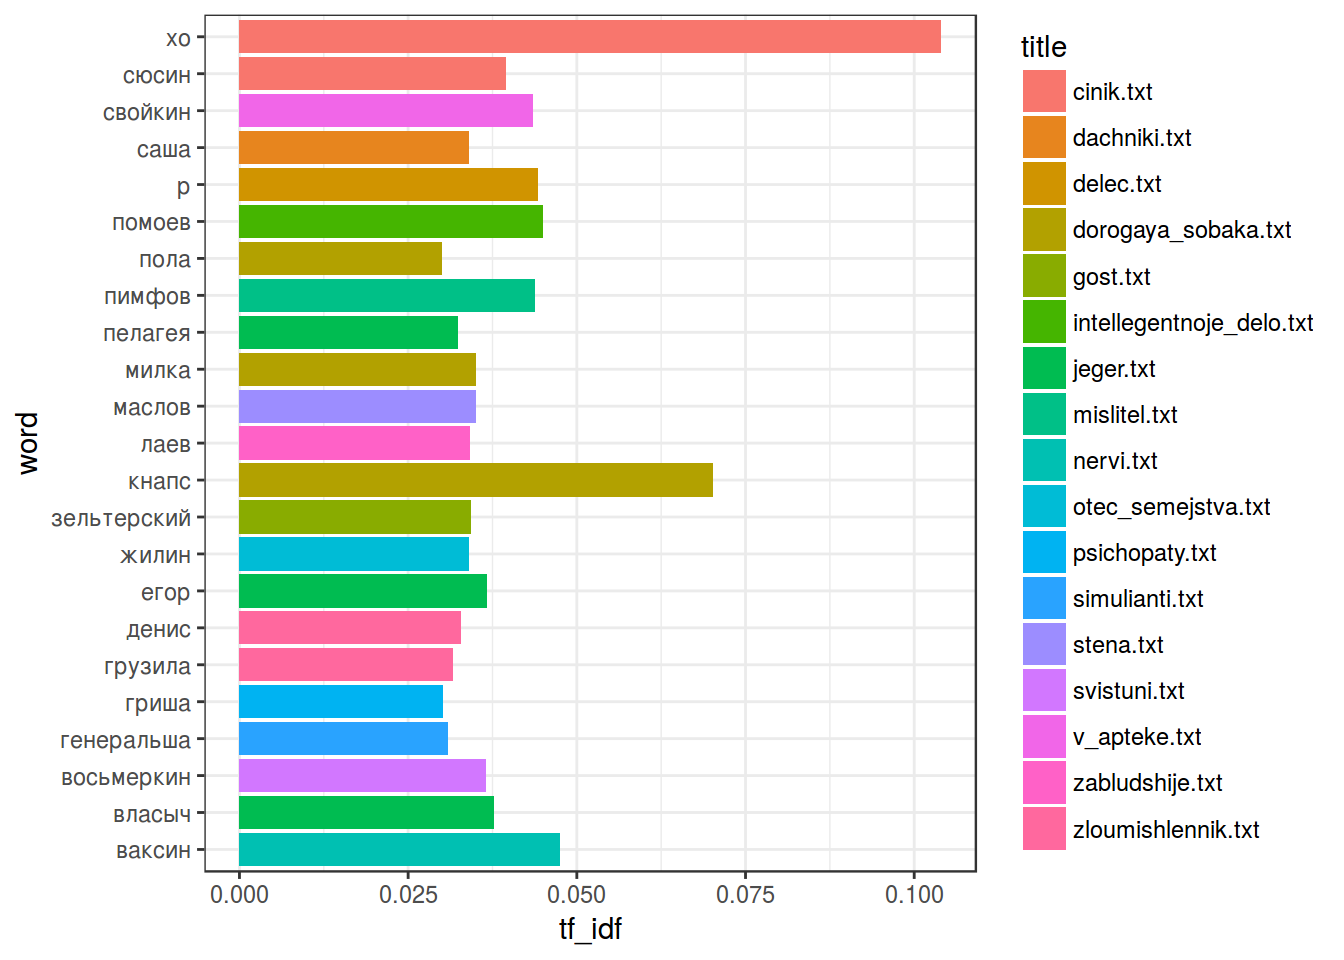
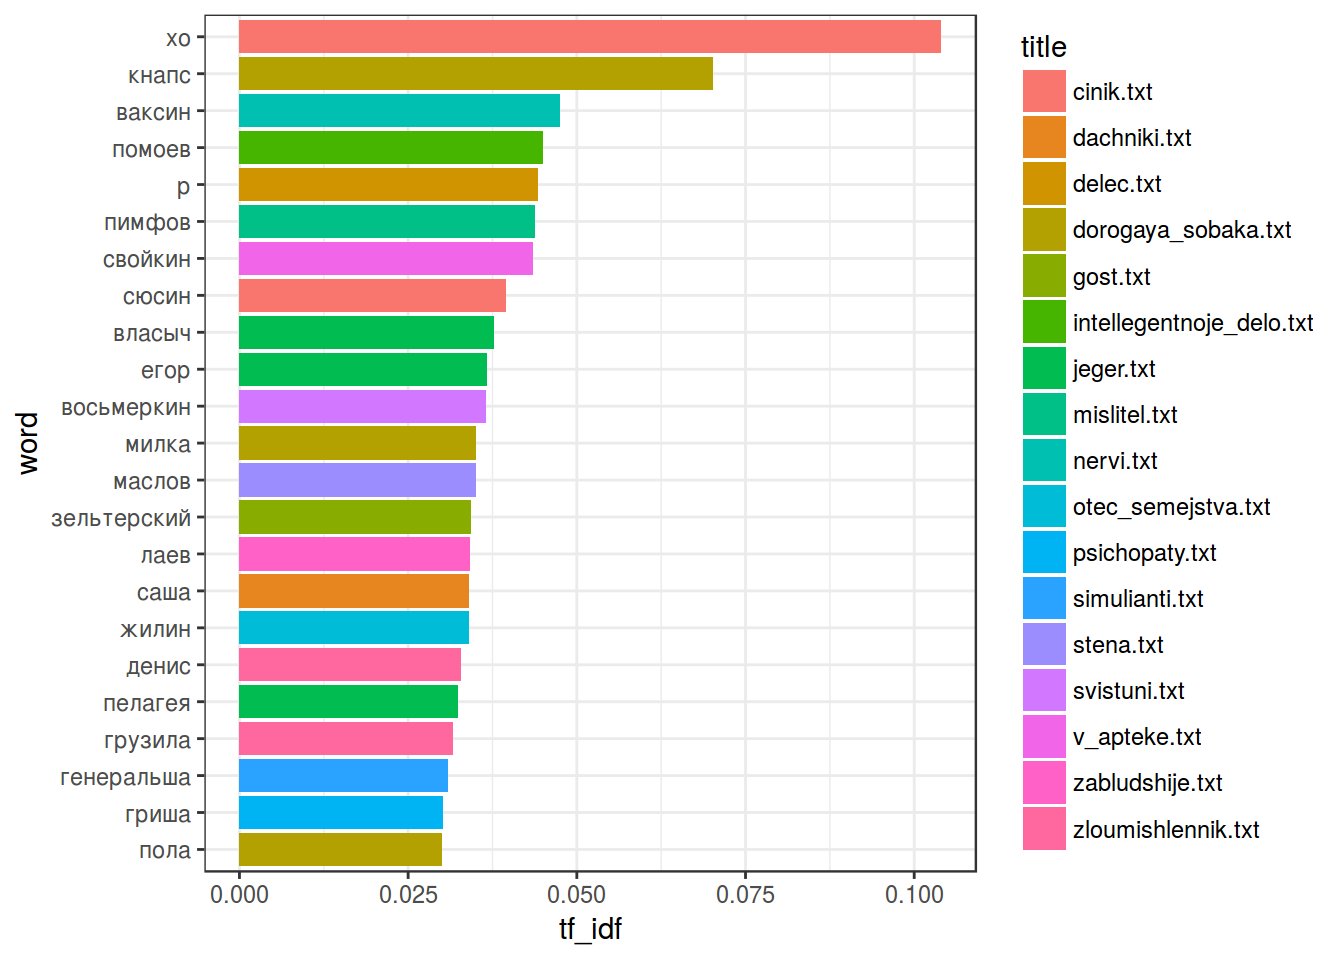
change index info

Changed region(s): [[0.0312, 0.0625, 0.5312, 0.5312], [0.0312, 0.5625, 0.4375, 0.9062]]

diff --git a/docs/3_frequency.html b/docs/3_frequency.html
@@ -453,7 +453,6 @@ all_texts &lt;-<span class="st"> </span><span class="kw">Reduce</span>(function(
 all_texts %&gt;%
 <span class="st">  </span><span class="kw">unnest_tokens</span>(word, text) -&gt;
 <span class="st">  </span>tidy_chekhov
-
 <span class="kw">head</span>(tidy_chekhov)</code></pre></div>
 <div data-pagedtable="false">
 <script data-pagedtable-source type="application/json">
@@ -510,7 +509,6 @@ fit$coefficients</code></pre></div>
 <span class="st">  </span><span class="kw">summarise</span>(<span class="dt">term_frequency =</span> <span class="kw">n</span>()/<span class="kw">nrow</span>(tidy_chekhov)) %&gt;%<span class="st"> </span>
 <span class="st">  </span><span class="kw">arrange</span>(<span class="kw">desc</span>(term_frequency)) %&gt;%<span class="st"> </span>
 <span class="st">  </span><span class="kw">mutate</span>(<span class="dt">rank =</span> <span class="kw">row_number</span>()) -&gt;<span class="st"> </span>zipf
-
 <span class="kw">head</span>(zipf)</code></pre></div>
 <div data-pagedtable="false">
 <script data-pagedtable-source type="application/json">
@@ -548,6 +546,7 @@ tidy_chekhov %&gt;%<span class="st"> </span>
 <span class="st">  </span><span class="kw">filter</span>(<span class="kw">str_detect</span>(title, <span class="st">&quot;moi_jeni.txt|nalim.txt|jeger.txt&quot;</span>)) %&gt;%
 <span class="st">  </span><span class="kw">count</span>(title, word, <span class="dt">sort =</span> <span class="ot">TRUE</span>) %&gt;%<span class="st"> </span>
 <span class="st">  </span><span class="kw">filter</span>(n &gt;<span class="st"> </span><span class="dv">3</span>) %&gt;%<span class="st"> </span>
+<span class="st">  </span><span class="kw">mutate</span>(<span class="dt">word =</span> <span class="kw">reorder</span>(word, n)) %&gt;%<span class="st"> </span>
 <span class="st">  </span><span class="kw">ggplot</span>(<span class="kw">aes</span>(word, n))+
 <span class="st">  </span><span class="kw">coord_flip</span>()+
 <span class="st">  </span><span class="kw">geom_bar</span>(<span class="dt">stat=</span> <span class="st">&quot;identity&quot;</span>)+
@@ -562,37 +561,18 @@ tidy_chekhov %&gt;%<span class="st"> </span>
 <h3>6. TF-IDF</h3>
 <div class="sourceCode"><pre class="sourceCode r"><code class="sourceCode r">tidy_chekhov %&gt;%<span class="st"> </span>
 <span class="st">  </span><span class="kw">count</span>(title, word)%&gt;%<span class="st"> </span>
-<span class="st">  </span><span class="kw">arrange</span>(<span class="kw">desc</span>(n))-&gt;
-<span class="st">  </span>tidy_chekhov_n
-<span class="kw">head</span>(tidy_chekhov_n)</code></pre></div>
-<div data-pagedtable="false">
-<script data-pagedtable-source type="application/json">
-{"columns":[{"label":["title"],"name":[1],"type":["chr"],"align":["left"]},{"label":["word"],"name":[2],"type":["chr"],"align":["left"]},{"label":["n"],"name":[3],"type":["int"],"align":["right"]}],"data":[{"1":"moi_jeni.txt","2":"и","3":"85"},{"1":"rukovodstvo_dlya_zhelayushich_zhenica.txt","2":"и","3":"70"},{"1":"ninochka.txt","2":"и","3":"60"},{"1":"mertvoje_telo.txt","2":"и","3":"58"},{"1":"starosta.txt","2":"и","3":"57"},{"1":"moi_jeni.txt","2":"в","3":"55"}],"options":{"columns":{"min":{},"max":[10]},"rows":{"min":[10],"max":[10]},"pages":{}}}
-  </script>
-</div>
-<div class="sourceCode"><pre class="sourceCode r"><code class="sourceCode r">tidy_chekhov_n %&gt;%<span class="st"> </span>
-<span class="st">  </span><span class="kw">group_by</span>(title) %&gt;%<span class="st"> </span>
-<span class="st">  </span><span class="kw">summarise</span>(<span class="kw">sum</span>(n)) %&gt;%<span class="st"> </span>
-<span class="st">  </span><span class="kw">left_join</span>(tidy_chekhov_n) -&gt;
-<span class="st">  </span>tidy_chekhov</code></pre></div>
-<pre><code>## Joining, by = &quot;title&quot;</code></pre>
-<div class="sourceCode"><pre class="sourceCode r"><code class="sourceCode r"><span class="kw">head</span>(tidy_chekhov)</code></pre></div>
-<div data-pagedtable="false">
-<script data-pagedtable-source type="application/json">
-{"columns":[{"label":["title"],"name":[1],"type":["chr"],"align":["left"]},{"label":["sum(n)"],"name":[2],"type":["int"],"align":["right"]},{"label":["word"],"name":[3],"type":["chr"],"align":["left"]},{"label":["n"],"name":[4],"type":["int"],"align":["right"]}],"data":[{"1":"cinik.txt","2":"1120","3":"и","4":"51"},{"1":"cinik.txt","2":"1120","3":"хо","4":"43"},{"1":"cinik.txt","2":"1120","3":"в","4":"28"},{"1":"cinik.txt","2":"1120","3":"не","4":"26"},{"1":"cinik.txt","2":"1120","3":"что","4":"23"},{"1":"cinik.txt","2":"1120","3":"а","4":"16"}],"options":{"columns":{"min":{},"max":[10]},"rows":{"min":[10],"max":[10]},"pages":{}}}
-  </script>
-</div>
-<div class="sourceCode"><pre class="sourceCode r"><code class="sourceCode r">tidy_chekhov %&gt;%<span class="st"> </span>
+<span class="st">  </span><span class="kw">arrange</span>(<span class="kw">desc</span>(n)) %&gt;%<span class="st"> </span>
 <span class="st">  </span><span class="kw">bind_tf_idf</span>(word, title, n) -&gt;
 <span class="st">  </span>tidy_chekhov_tf_idf
 <span class="kw">head</span>(tidy_chekhov_tf_idf)</code></pre></div>
 <div data-pagedtable="false">
 <script data-pagedtable-source type="application/json">
-{"columns":[{"label":["title"],"name":[1],"type":["chr"],"align":["left"]},{"label":["sum(n)"],"name":[2],"type":["int"],"align":["right"]},{"label":["word"],"name":[3],"type":["chr"],"align":["left"]},{"label":["n"],"name":[4],"type":["int"],"align":["right"]},{"label":["tf"],"name":[5],"type":["dbl"],"align":["right"]},{"label":["idf"],"name":[6],"type":["dbl"],"align":["right"]},{"label":["tf_idf"],"name":[7],"type":["dbl"],"align":["right"]}],"data":[{"1":"cinik.txt","2":"1120","3":"и","4":"51","5":"0.04553571","6":"0.00000","7":"0.0000000"},{"1":"cinik.txt","2":"1120","3":"хо","4":"43","5":"0.03839286","6":"2.70805","7":"0.1039698"},{"1":"cinik.txt","2":"1120","3":"в","4":"28","5":"0.02500000","6":"0.00000","7":"0.0000000"},{"1":"cinik.txt","2":"1120","3":"не","4":"26","5":"0.02321429","6":"0.00000","7":"0.0000000"},{"1":"cinik.txt","2":"1120","3":"что","4":"23","5":"0.02053571","6":"0.00000","7":"0.0000000"},{"1":"cinik.txt","2":"1120","3":"а","4":"16","5":"0.01428571","6":"0.00000","7":"0.0000000"}],"options":{"columns":{"min":{},"max":[10]},"rows":{"min":[10],"max":[10]},"pages":{}}}
+{"columns":[{"label":["title"],"name":[1],"type":["chr"],"align":["left"]},{"label":["word"],"name":[2],"type":["chr"],"align":["left"]},{"label":["n"],"name":[3],"type":["int"],"align":["right"]},{"label":["tf"],"name":[4],"type":["dbl"],"align":["right"]},{"label":["idf"],"name":[5],"type":["dbl"],"align":["right"]},{"label":["tf_idf"],"name":[6],"type":["dbl"],"align":["right"]}],"data":[{"1":"moi_jeni.txt","2":"и","3":"85","4":"0.04150391","5":"0","6":"0"},{"1":"rukovodstvo_dlya_zhelayushich_zhenica.txt","2":"и","3":"70","4":"0.06278027","5":"0","6":"0"},{"1":"ninochka.txt","2":"и","3":"60","4":"0.04335260","5":"0","6":"0"},{"1":"mertvoje_telo.txt","2":"и","3":"58","4":"0.04781533","5":"0","6":"0"},{"1":"starosta.txt","2":"и","3":"57","4":"0.04169715","5":"0","6":"0"},{"1":"moi_jeni.txt","2":"в","3":"55","4":"0.02685547","5":"0","6":"0"}],"options":{"columns":{"min":{},"max":[10]},"rows":{"min":[10],"max":[10]},"pages":{}}}
   </script>
 </div>
 <div class="sourceCode"><pre class="sourceCode r"><code class="sourceCode r">tidy_chekhov_tf_idf %&gt;%<span class="st"> </span>
 <span class="st">  </span><span class="kw">filter</span>(tf_idf &gt;<span class="st"> </span><span class="fl">0.03</span>) %&gt;%<span class="st"> </span><span class="co"># число подобрано по данным</span>
+<span class="st">  </span><span class="kw">mutate</span>(<span class="dt">word =</span> <span class="kw">reorder</span>(word, tf_idf)) %&gt;%<span class="st"> </span>
 <span class="st">  </span><span class="kw">ggplot</span>(<span class="kw">aes</span>(word, tf_idf, <span class="dt">fill =</span> title))+
 <span class="st">  </span><span class="kw">coord_flip</span>()+
 <span class="st">  </span><span class="kw">geom_bar</span>(<span class="dt">stat=</span> <span class="st">&quot;identity&quot;</span>)+

diff --git a/docs/index.html b/docs/index.html
@@ -235,7 +235,7 @@ $(document).ready(function () {
 
 <h1 class="title toc-ignore">От вектора к текстам в R</h1>
 <h4 class="author"><em>Г. Мороз</em></h4>
-<h4 class="date"><em>25-26 июля 2017, АНДАН</em></h4>
+<h4 class="date"><em>25-26 июля 2017, АНДАН, <a href="https://goo.gl/v3qxAq" class="uri">https://goo.gl/v3qxAq</a></em></h4>
 
 </div>
 
@@ -249,7 +249,7 @@ $(document).ready(function () {
 <span class="kw">library</span>(stringdist)
 <span class="kw">library</span>(tidytext)
 <span class="kw">library</span>(tidyverse)</code></pre></div>
-<p>Требования к участникам: умение писать свои функции и базовое знание <code>dplyr</code>, <code>ggplot</code> и <code>tidyr</code>.</p>
+<p>Требования к участникам: умение писать свои функции и базовое знание <code>dplyr</code>, <code>ggplot</code> и <code>tidyr</code>. Славно, если слушатель знает что такое PCA.</p>
 </div>
 <div class="section level3">
 <h3>Полезное</h3>
